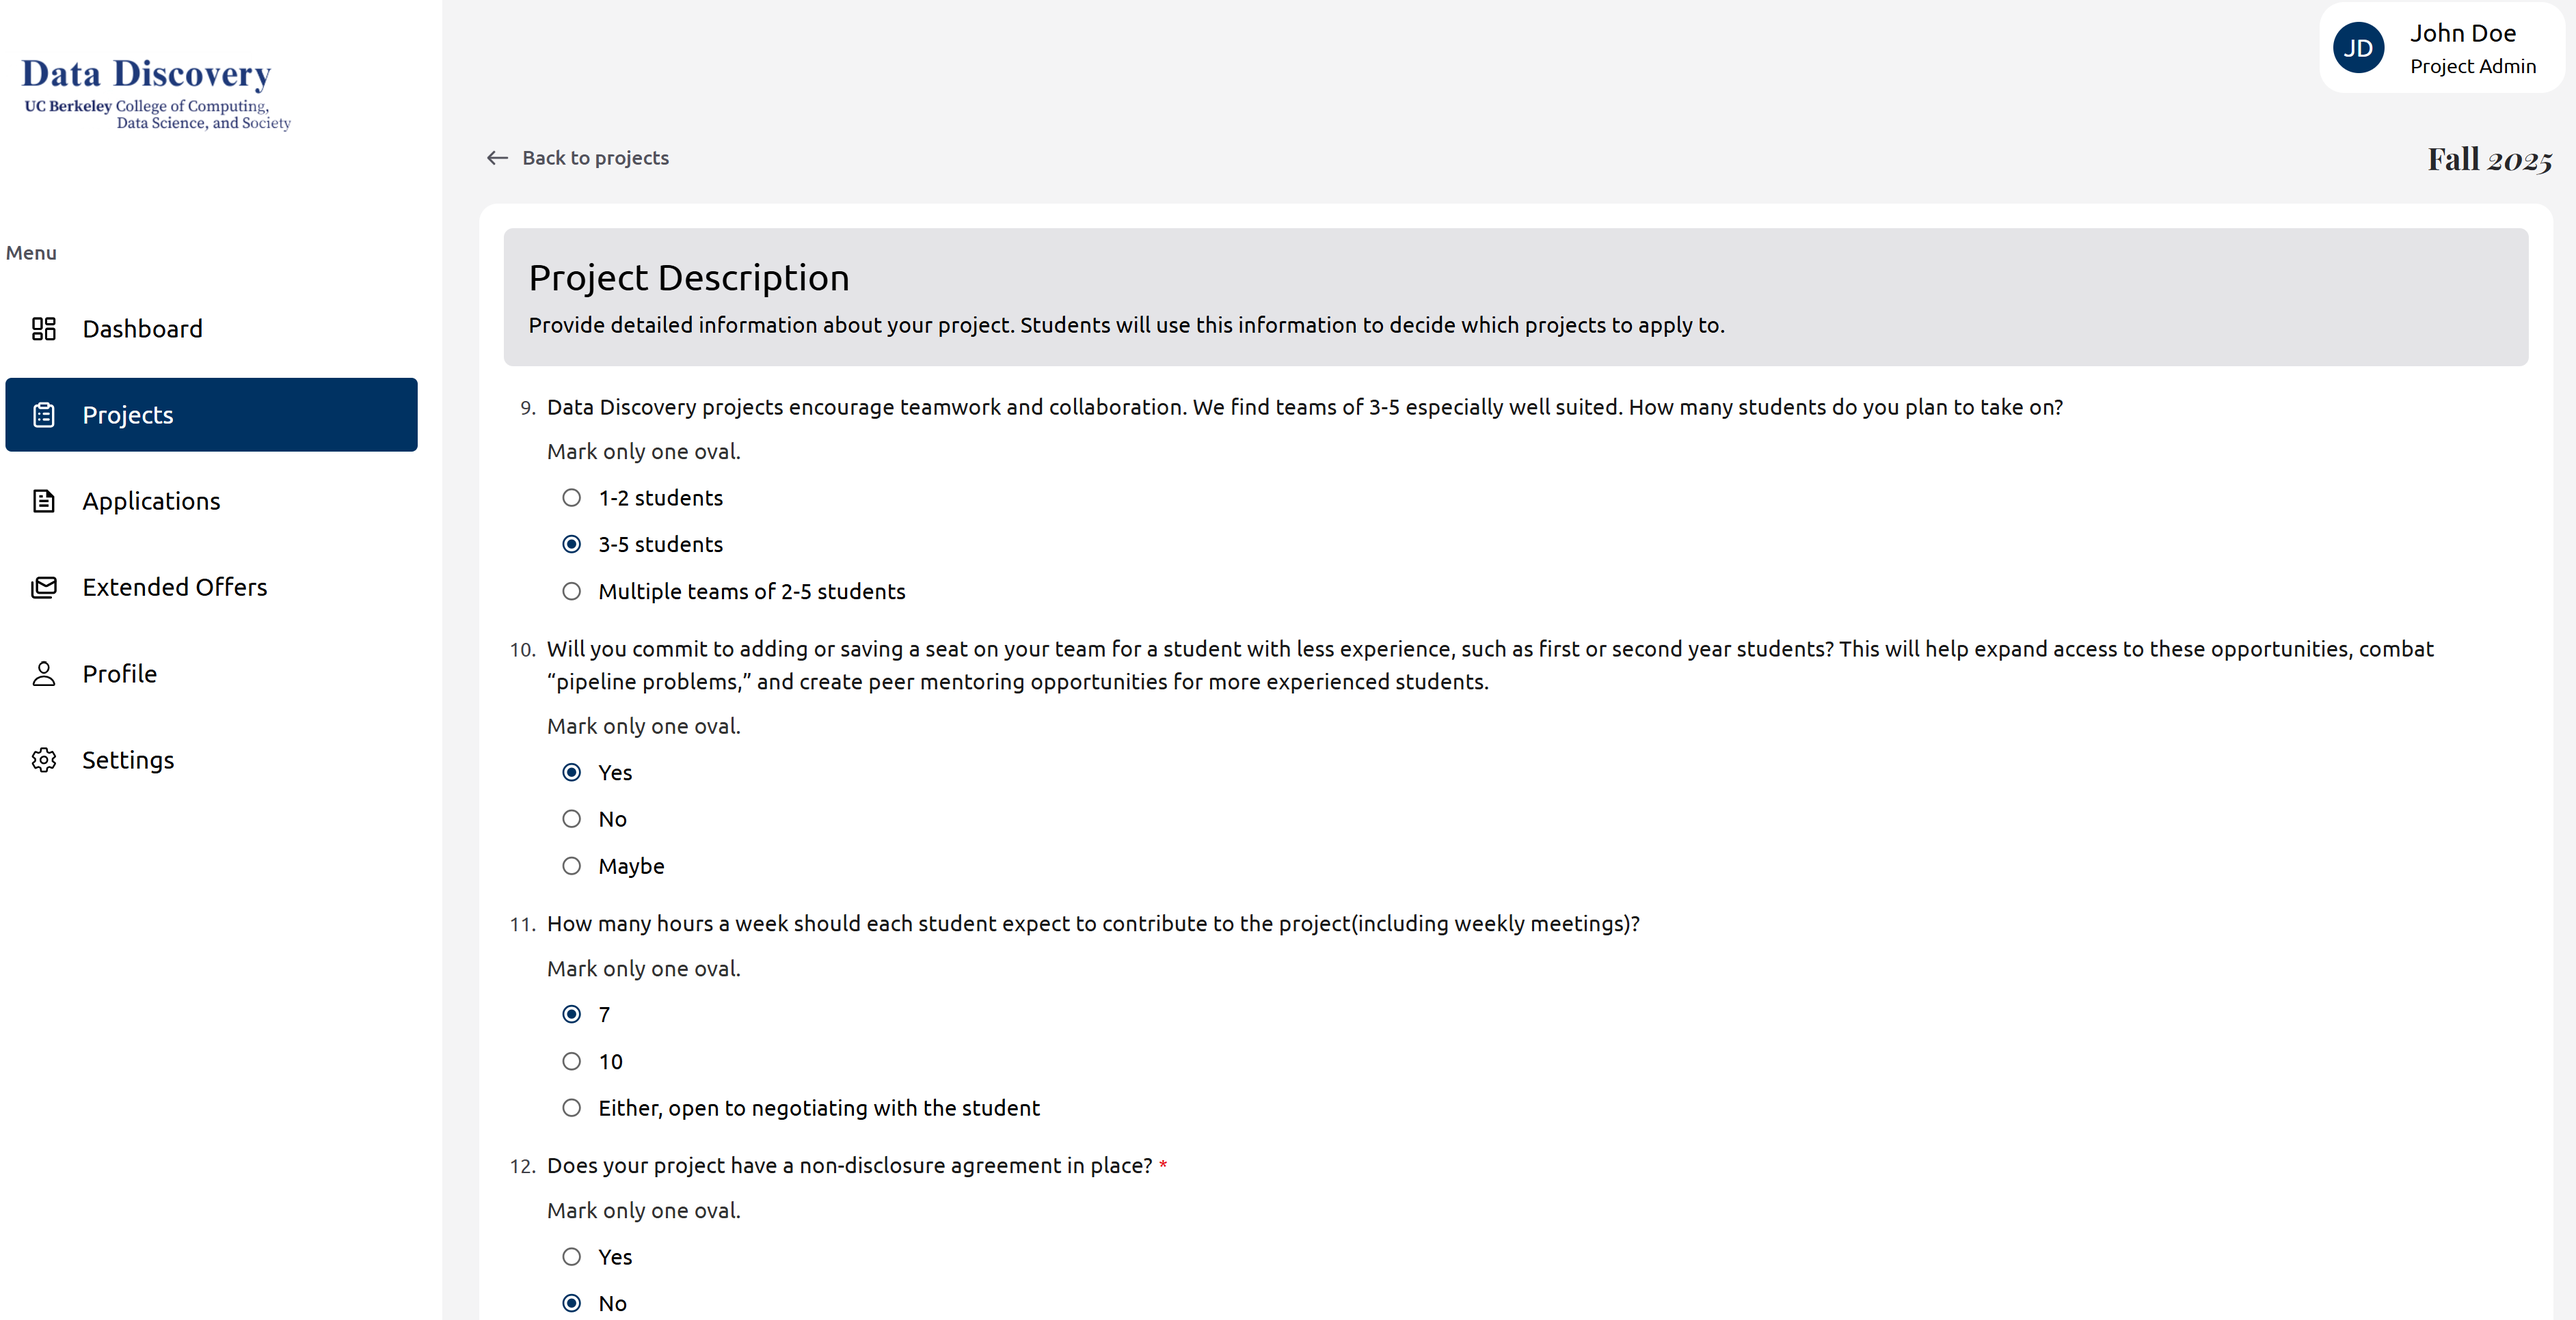
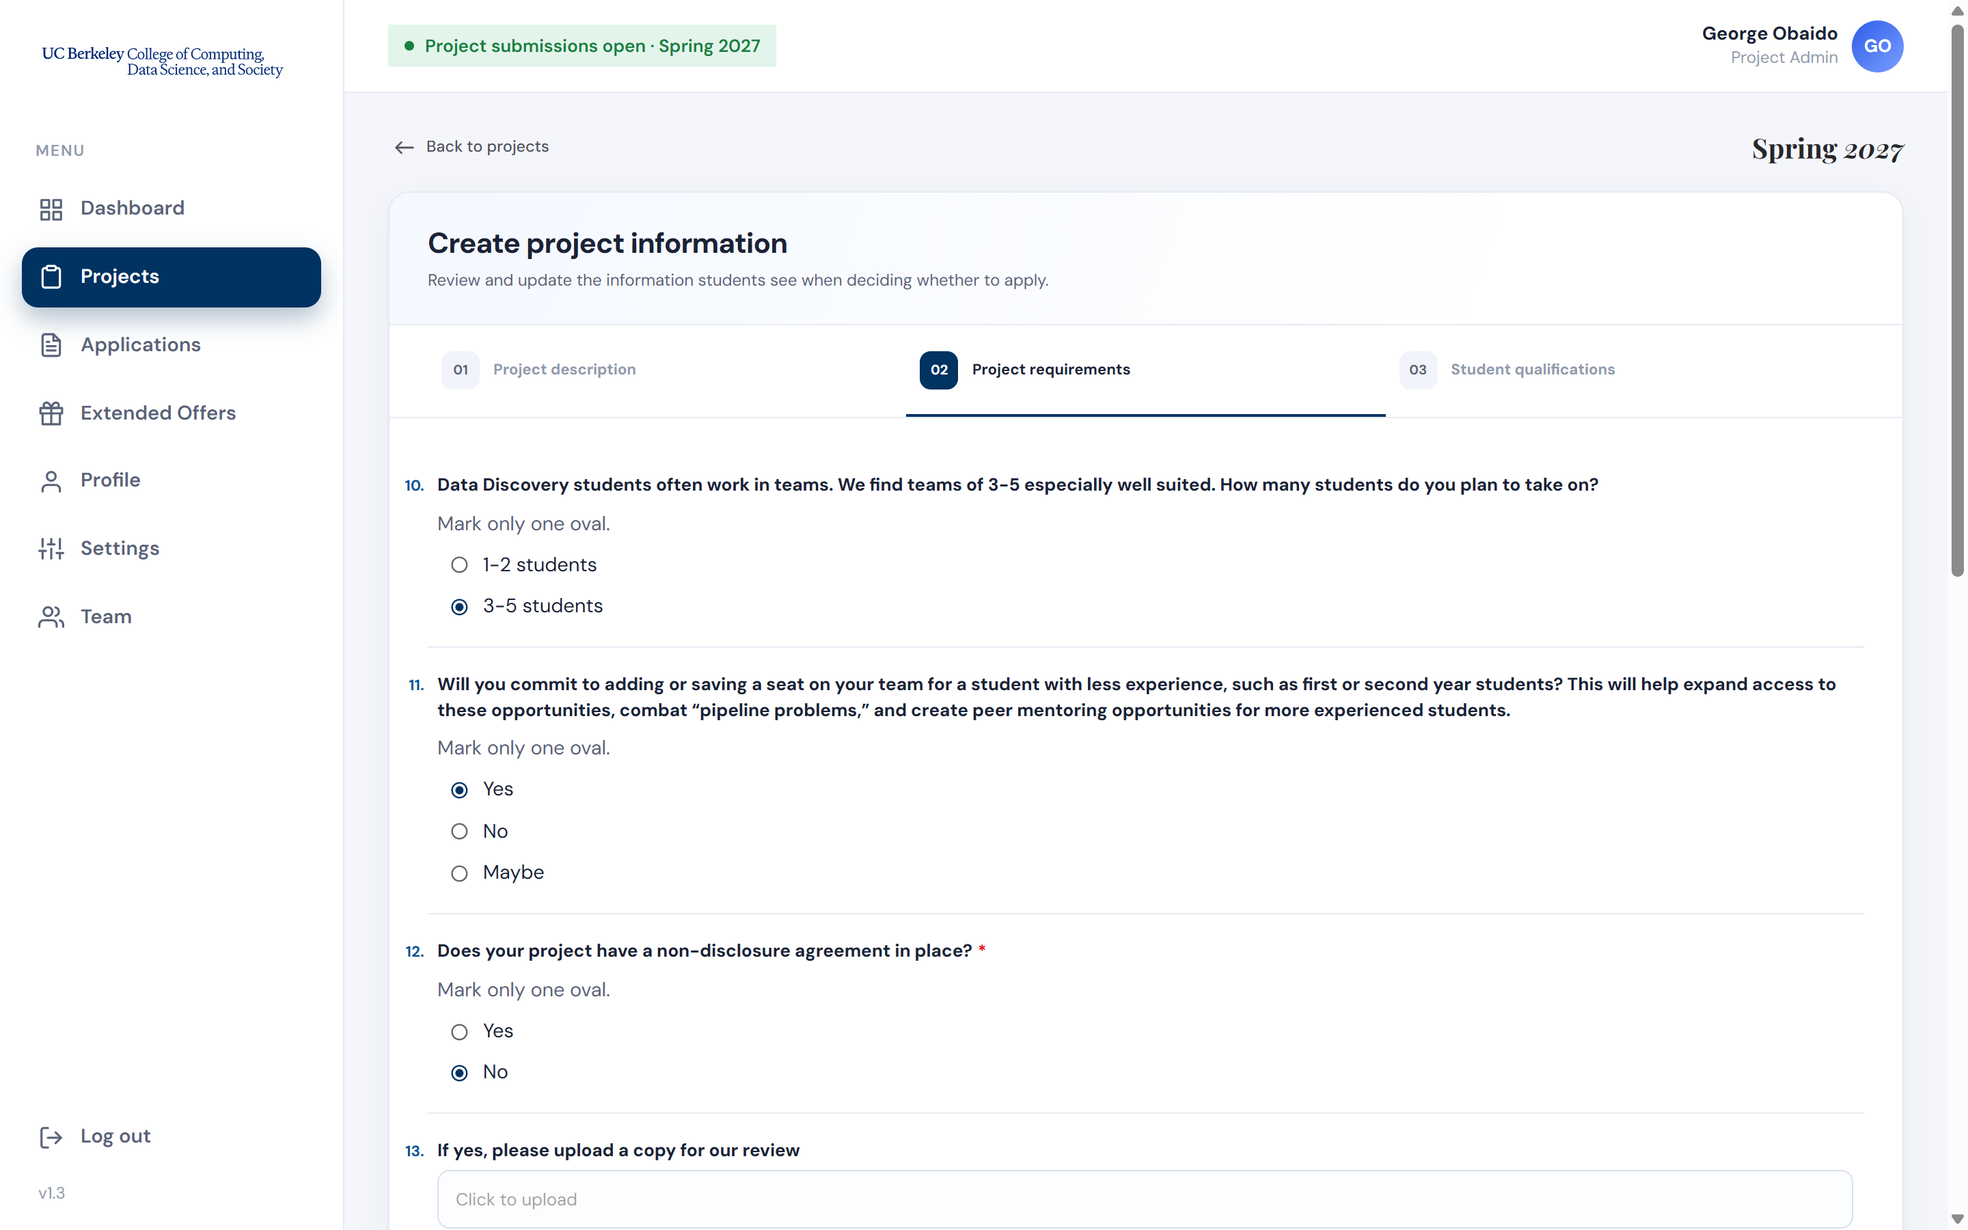
Update mentor project guide for the new three-tab form
Rewrite Creating a Mentor's Project around the Project description,
Project requirements and Student qualifications tabs, and refresh all
nine screenshots.

diff --git a/ddmatch/create-project.md b/ddmatch/create-project.md
@@ -6,75 +6,92 @@ This guide walks mentors through the steps required to successfully submit a pro
 
 ---
 
-## Step 1: Navigate to the Projects Tab
+## Step 1: Go to Projects
 
-Once logged in, click the **“Projects”** tab on the left-hand menu. Then click the **“Create Project”** button on the top-right corner.
+Once logged in, click **Projects** in the left-hand menu. This page lists your organization's projects, with counts of **Your projects**, **Approved** projects and **Applications** at the top. Click the **+ Create project** button to start a new project.
 
-![Step 1: Navigate to Projects](../assets/proj1.png)
+![Step 1: Projects page](../assets/proj1.png)
 
----
-
-## Step 2: Add Basic Project Information
-
-Enter your **Project Title**, a short **Project Overview**, upload a banner image (under 1MB, 700×200px), and provide your **Name** and **Email**.
-
-![Step 2: Basic Info](../assets/proj2.png)
+> The **Create project** form has three tabs: **Project description**, **Project requirements**, and **Student qualifications**. Use **Next** and **Previous** at the bottom of the form to move between them; the progress bar shows how far along you are. Questions marked with a red asterisk (*) are required.
 
 ---
 
-## Step 3: Choose Categories
+## Step 2: Project Description: Title, Overview and Image
 
-Select the **primary** and **secondary label** that best categorize your project (e.g., Environment, Engineering, Public Policy, etc.).
+On the **Project description** tab, enter your **Project Title** and a **Project Overview** of 100–200 words describing the project for students, including its goals, objectives, and scope. Then attach an image that represents your project. It must be **under 1 MB and exactly 700 × 200 pixels**.
 
-![Step 3: Project Categories](../assets/proj3.png)
+![Step 2: Title, overview and image](../assets/proj2.png)
 
 ---
 
-## Step 4: Define Deliverables
+## Step 3: Project Description: Categories
 
-Describe the tangible outcomes students will produce over the semester. Include things like reports, dashboards, models, or presentations.
+Students browse opportunities by category. Choose the **primary label** that best describes your project: Business, Education, Engineering, Environment, Government, Medicine, Natural & Physical Sciences, Public Policy (including Public Health), or Social Science. You can also pick a **secondary label**, or select **None**.
+
+![Step 3: Primary and secondary labels](../assets/proj3.png)
+
+---
+
+## Step 4: Project Description: Deliverables
+
+Data Discovery provides roughly 12 weeks of work time during the semester. Describe the specific outputs you expect students to achieve **by the midpoint and by the end of the program** (up to 100 words), such as a time-series analysis, simulation results, data visualizations, a web or mobile application, or a research report or presentation. Click **Next** to continue.
 
 ![Step 4: Deliverables](../assets/proj4.png)
 
 ---
 
-## Step 5: Project Scope
+## Step 5: Project Requirements: Team and Agreements
 
-Indicate whether this is a **new or continuing project**, and provide a link to any related materials (website, deck, prior semester project).
+On the **Project requirements** tab, answer the following:
 
-![Step 5: Project Continuation Info](../assets/pro5.png)
+- **Team size:** how many students you plan to take on (**1–2** or **3–5**). Teams of 3–5 are especially well suited.
+- **A seat for a less experienced student:** whether you'll add or save a place on your team for a first- or second-year student (**Yes**, **No**, or **Maybe**). This helps expand access to these opportunities and creates peer mentoring for more experienced students.
+- **Non-disclosure agreement:** whether your project has an NDA in place. If it does, upload a copy for the program team to review.
 
----
-
-## Step 6: Dataset Description
-
-Describe the **type, size, and structure of your dataset**. Include whether it’s observational, spatial, time-series, etc., and note if students will need to collect it.
-
-![Step 6: Dataset Details](../assets/proj6.png)
+![Step 5: Team size, seat and NDA](../assets/pro5.png)
 
 ---
 
-## Step 7: Skills Students Will Develop
+## Step 6: Project Requirements: Skills, Data and Continuation
 
-Check the skills students will learn through this project (e.g., EDA, NLP, ML, data visualization).
+Still on the **Project requirements** tab:
 
-![Step 7: Student Skill Development](../assets/proj7.png)
+- **Skills:** check the data science skills your project involves (e.g., Machine Learning, Natural Language Processing, Advanced Modeling, Cloud Computing).
+- **Dataset:** describe how the data were or will be collected, the size and scope of the dataset, and the kind of data (e.g., observational, survey, time series, spatial, network, text, image), in 25–150 words. Include anything that would help students understand the data and how they'll work with it.
+- **Further information:** optionally, link to a presentation, video introduction, or project website.
+- **Continuation:** say whether this project continues from a previous semester: **Yes, and we will not need any new students**, **Yes, and we will be looking for new students**, or **No**.
+
+Click **Next** to continue.
+
+![Step 6: Skills, dataset and continuation](../assets/proj6.png)
 
 ---
 
-## Step 8: Technical Requirements
+## Step 7: Student Qualifications: Experience Levels
 
-Specify which skills or tools students should be familiar with (e.g., Python, SQL, Tableau, Hugging Face, AWS). Also add any helpful background knowledge.
+On the **Student qualifications** tab, describe the skills students need, so applicants can judge whether they're a good fit. (Applicants submit an application form describing their skill set, along with a resume.)
 
-![Step 8: Technical Expectations](../assets/proj8.png)
+First, indicate the level of experience you're looking for in **Python**, **R**, and **SQL**: **No Experience**, **Beginner**, **Intermediate**, or **Advanced**.
+
+![Step 7: Experience levels](../assets/proj7.png)
 
 ---
 
-## Step 9: Final Review and Submit
+## Step 8: Student Qualifications: Additional Skills, then Submit
 
-Review your inputs and click **Submit** to publish your project to the platform. Students will now be able to view and apply.
+Narrow down any other technical requirements, such as languages (e.g., Swift, PHP, HTML/CSS, JS), packages and libraries (e.g., Pandas, Scikit-learn, Hugging Face Transformers, LangChain, OpenAI), or cloud platforms (Azure, GCP, AWS). Then add anything else that would help students know if they're a good fit, such as relevant coursework, teamwork experience, or domain knowledge.
 
-![Step 9: Submit Project](../assets/proj9.png)
+When you're done, click **Submit**.
+
+![Step 8: Additional skills and Submit](../assets/proj8.png)
+
+---
+
+## Step 9: Track Your Project
+
+You'll see **Project created successfully**, and your project appears on the **Projects** page with a **Pending** status while the Data Discovery Program Team reviews it. Each project card shows its categories, team size, and number of applications. Click **Edit project** to make changes.
+
+![Step 9: Project created](../assets/proj9.png)
 
 > ✅ Congratulations! Your project has been successfully submitted for consideration and will undergo review by the Data Discovery Program Team. Please await further communication regarding the status of your submission.
 
